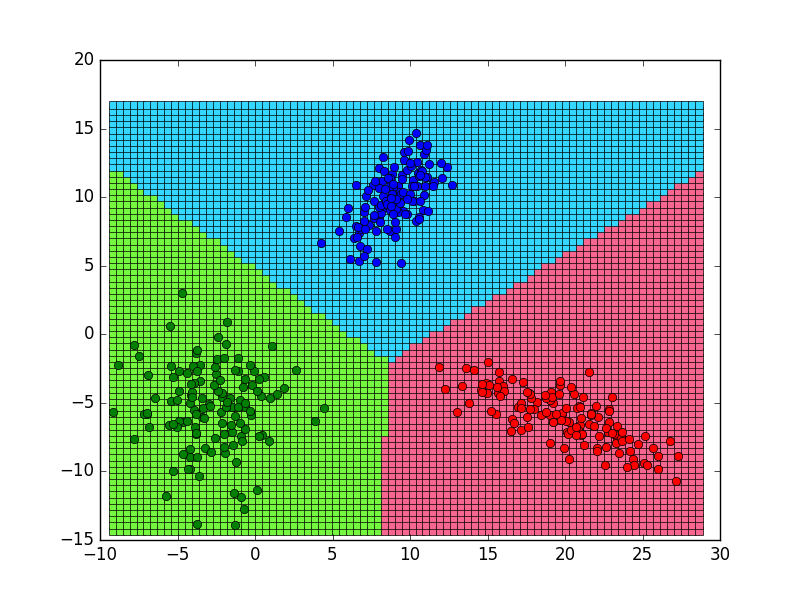
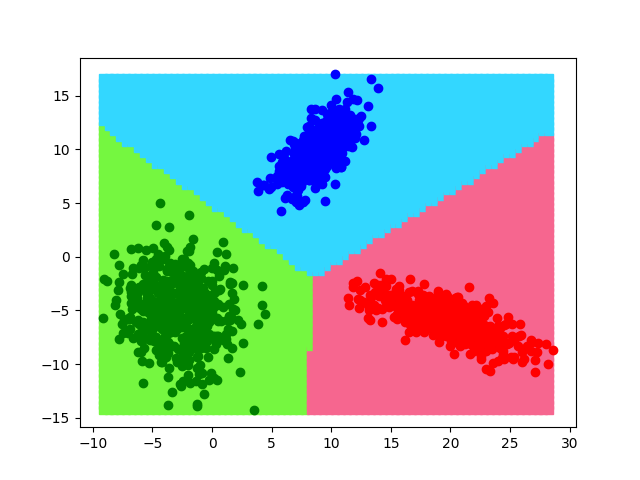
Contour shape Corrected for all 3 cases

diff --git a/NLS_group12/4.py b/NLS_group12/4.py
@@ -110,6 +110,19 @@ def calcG(w2,w1,w0,x):
     # g=(w[0]*float(x[0]))+(w[1]*float(x[1]))+w0
     return g
 
+def calcGp(w2,w1,w0,x,y):
+    x1 = x
+    x2 = y
+    # print(x1," ", x2);
+    temp = [( (x1*w2[0][0]) + (x2*w2[1][0]) ), ( (x1*w2[0][1]) + (x2*w2[1][1]) )]
+    g = ( (temp[0]*x1) + (temp[1]*x2) )
+    
+    g += ( (w1[0]*x1) + (w1[1]*x2) )
+
+    g += w0
+    # g=(w[0]*float(x[0]))+(w[1]*float(x[1]))+w0
+    return g
+
 def graph(formula, x_range):  
     x = np.array(x_range)  
     y = formula(x)
@@ -330,23 +343,23 @@ def main():
     print ("ymax = ",ymax)
     A = [[0 for x in range(2)] for y in range(2)]
 
-    i=xmin
-    while i<xmax :
-        j=ymin
-        while j<ymax:
-            A[0]=i
-            A[1]=j
-            g1=calcG(w2_1,w1_1,w01,A)
-            g2=calcG(w2_2,w1_2,w02,A)
-            g3=calcG(w2_3,w1_3,w03,A)
-            if g1==max(g1,g2,g3):
-                plt.plot(i,j,color='#f6668f',marker='s')
-            elif g2==max(g1,g2,g3):
-                plt.plot(i,j,color='#33d7ff',marker='s')
-            elif g3==max(g1,g2,g3):
-                plt.plot(i,j,color='#75f740',marker='s')
-            j+=0.07
-        i+=0.07
+    # i=xmin
+    # while i<xmax :
+    #     j=ymin
+    #     while j<ymax:
+    #         A[0]=i
+    #         A[1]=j
+    #         g1=calcG(w2_1,w1_1,w01,A)
+    #         g2=calcG(w2_2,w1_2,w02,A)
+    #         g3=calcG(w2_3,w1_3,w03,A)
+    #         if g1==max(g1,g2,g3):
+    #             plt.plot(i,j,color='#f6668f',marker='s')
+    #         elif g2==max(g1,g2,g3):
+    #             plt.plot(i,j,color='#33d7ff',marker='s')
+    #         elif g3==max(g1,g2,g3):
+    #             plt.plot(i,j,color='#75f740',marker='s')
+    #         j+=0.07
+    #     i+=0.07
 
     X1=readDataSetTesting("Class1.txt")
     for i in range(M-N):
@@ -359,8 +372,45 @@ def main():
     X3=readDataSetTesting("Class3.txt")
     for i in range(M-N):
         plt.plot(X3[i][0],X3[i][1],'go')
-
+	
+    x = np.linspace(xmin,xmax,100)
+    y = np.linspace(ymin,ymax,100)
+    X, Y = np.meshgrid(x, y)
+    Z=calcGp(w2_1,w1_1,w01,X,Y)
+    for i in range (100):
+    	for j in range (100):
+    		if(Z[i][j])<-3:
+    			Z[i][j]=-3
+    print (Z)
+   # #plt.figure()
+    plt.contour(X, Y, Z,7,colors="black")      
     
+    x = np.linspace(xmin,xmax,100)
+    y = np.linspace(ymin,ymax,100)
+    X, Y = np.meshgrid(x, y)
+    Z=calcGp(w2_3,w1_3,w03,X,Y)
+    for i in range (100):
+    	for j in range (100):
+    		if(Z[i][j])<-3:
+    			Z[i][j]=-3
+    print (Z)
+   # #plt.figure()
+    plt.contour(X, Y, Z,7,colors="black")      
+    
+    x = np.linspace(xmin,xmax,100)
+    y = np.linspace(ymin,ymax,100)
+    X, Y = np.meshgrid(x, y)
+    Z=calcGp(w2_2,w1_2,w02,X,Y)
+    for i in range (100):
+    	for j in range (100):
+    		if(Z[i][j])<-4:
+    			Z[i][j]=-4
+    print (Z)
+   # #plt.figure()
+    plt.contour(X, Y, Z,7,colors="black")      
+    
+
+
     plt.show()   
 
     

diff --git a/rd_group12/4.py b/rd_group12/4.py
@@ -122,6 +122,19 @@ def calcG(w2,w1,w0,x):
     # g=(w[0]*float(x[0]))+(w[1]*float(x[1]))+w0
     return g
 
+def calcGp(w2,w1,w0,x,y):
+    x1 = x
+    x2 = y
+    # print(x1," ", x2);
+    temp = [( (x1*w2[0][0]) + (x2*w2[1][0]) ), ( (x1*w2[0][1]) + (x2*w2[1][1]) )]
+    g = ( (temp[0]*x1) + (temp[1]*x2) )
+    
+    g += ( (w1[0]*x1) + (w1[1]*x2) )
+
+    g += w0
+    # g=(w[0]*float(x[0]))+(w[1]*float(x[1]))+w0
+    return g
+
 def graph(formula, x_range):  
     x = np.array(x_range)  
     y = formula(x)
@@ -372,23 +385,23 @@ def main():
     print ("ymax = ",ymax)
     A = [[0 for x in range(2)] for y in range(2)]
 
-    i=xmin
-    while i<xmax :
-        j=ymin
-        while j<ymax:
-            A[0]=i
-            A[1]=j
-            g1=calcG(w2_1,w1_1,w01,A)
-            g2=calcG(w2_2,w1_2,w02,A)
-            g3=calcG(w2_3,w1_3,w03,A)
-            if g1==max(g1,g2,g3):
-                plt.plot(i,j,color='#f6668f',marker='s')
-            elif g2==max(g1,g2,g3):
-                plt.plot(i,j,color='#33d7ff',marker='s')
-            elif g3==max(g1,g2,g3):
-                plt.plot(i,j,color='#75f740',marker='s')
-            j+=25
-        i+=25
+    # i=xmin
+    # while i<xmax :
+    #     j=ymin
+    #     while j<ymax:
+    #         A[0]=i
+    #         A[1]=j
+    #         g1=calcG(w2_1,w1_1,w01,A)
+    #         g2=calcG(w2_2,w1_2,w02,A)
+    #         g3=calcG(w2_3,w1_3,w03,A)
+    #         if g1==max(g1,g2,g3):
+    #             plt.plot(i,j,color='#f6668f',marker='s')
+    #         elif g2==max(g1,g2,g3):
+    #             plt.plot(i,j,color='#33d7ff',marker='s')
+    #         elif g3==max(g1,g2,g3):
+    #             plt.plot(i,j,color='#75f740',marker='s')
+    #         j+=25
+    #     i+=25
 
     X1=readDataSetTesting("class1.txt")
     for i in range(len(X1)):
@@ -402,7 +415,43 @@ def main():
     for i in range(len(X3)):
         plt.plot(X3[i][0],X3[i][1],'go')
 
-    
+    x = np.linspace(xmin,xmax,100)
+    y = np.linspace(ymin,ymax,100)
+    X, Y = np.meshgrid(x, y)
+    Z=calcGp(w2_1,w1_1,w01,X,Y)
+    for i in range (100):
+        for j in range (100):
+            if(Z[i][j])<-40:
+                Z[i][j]=-40
+    print (Z)
+   # #plt.figure()
+    plt.contour(X, Y, Z,7,colors="red")
+
+    x = np.linspace(xmin,xmax,100)
+    y = np.linspace(ymin,ymax,100)
+    X, Y = np.meshgrid(x, y)
+    Z=calcGp(w2_2,w1_2,w02,X,Y)
+    for i in range (100):
+        for j in range (100):
+            if(Z[i][j])<-40:
+                Z[i][j]=-40
+    print (Z)
+   # #plt.figure()
+    plt.contour(X, Y, Z,7,colors="blue")      
+
+
+    x = np.linspace(xmin,xmax,100)
+    y = np.linspace(ymin,ymax,100)
+    X, Y = np.meshgrid(x, y)
+    Z=calcGp(w2_3,w1_3,w03,X,Y)
+    for i in range (100):
+        for j in range (100):
+            if(Z[i][j])<-40:
+                Z[i][j]=-40
+    print (Z)
+   # #plt.figure()
+    plt.contour(X, Y, Z,7,colors="green")      
+
     plt.show()
 
 

diff --git a/LS_Group12/4.py b/LS_Group12/4.py
@@ -364,20 +364,20 @@ def main():
     #         j+=0.7
     #     i+=0.7
     
-    X1=readDataSetTesting("Class1.txt")
-    for i in range(M-N):
+    X1=readDataSetWhole("Class1.txt")
+    for i in range(M):
         plt.plot(X1[i][0],X1[i][1],'ro')
 
-    X2=readDataSetTesting("Class2.txt")
-    for i in range(M-N):
+    X2=readDataSetWhole("Class2.txt")
+    for i in range(M):
         plt.plot(X2[i][0],X2[i][1],'bo')
 
-    X3=readDataSetTesting("Class3.txt")
-    for i in range(M-N):
+    X3=readDataSetWhole("Class3.txt")
+    for i in range(M):
         plt.plot(X3[i][0],X3[i][1],'go')
 
-    x = np.linspace(-10,10,100)
-    y = np.linspace(-20,5,100)
+    x = np.linspace(xmin,xmax,100)
+    y = np.linspace(ymin,ymax,100)
     X, Y = np.meshgrid(x, y)
     Z=calcGp(w2_3,w1_3,w03,X,Y)
     for i in range (100):
@@ -389,8 +389,8 @@ def main():
     plt.contour(X, Y, Z,7,colors="black")
     #plt.figure()
     #plt.show()   
-    x = np.linspace(4.5,35,100)
-    y = np.linspace(-15,5,100)
+    x = np.linspace(xmin,xmax,100)
+    y = np.linspace(ymin,ymax,100)
     X, Y = np.meshgrid(x, y)
     Z=calcGp(w2_1,w1_1,w01,X,Y)
     for i in range (100):
@@ -401,8 +401,8 @@ def main():
     # #plt.figure()
     plt.contour(X, Y, Z,7,colors="black")
 
-    x = np.linspace(1.7,17,100)
-    y = np.linspace(1.8,20,100)
+    x = np.linspace(xmin,xmax,100)
+    y = np.linspace(ymin,ymax,100)
     X, Y = np.meshgrid(x, y)
     Z=calcGp(w2_2,w1_2,w02,X,Y)
     for i in range (100):

diff --git a/LS_Group12/1.py b/LS_Group12/1.py
@@ -293,6 +293,10 @@ def main():
     print ("ymax = ",ymax)
     A = [[0 for x in range(2)] for y in range(2)]
 
+    x = np.linspace(xmin,xmax,100)
+    y = np.linspace(ymin,ymax,100)
+    X, Y = np.meshgrid(x, y)
+    
     i=xmin
     while i<xmax :
         j=ymin
@@ -308,19 +312,19 @@ def main():
                 plt.plot(i,j,color='#33d7ff',marker='s')
             elif g3==max(g1,g2,g3):
                 plt.plot(i,j,color='#75f740',marker='s')
-            j+=1
-        i+=1
+            j+=0.5
+        i+=0.5
 
-    X1=readDataSetTesting("Class1.txt")
-    for i in range(M-N):
+    X1=readDataSetWhole("Class1.txt")
+    for i in range(M):
         plt.plot(X1[i][0],X1[i][1],'ro')
 
-    X2=readDataSetTesting("Class2.txt")
-    for i in range(M-N):
+    X2=readDataSetWhole("Class2.txt")
+    for i in range(M):
         plt.plot(X2[i][0],X2[i][1],'bo')
 
-    X3=readDataSetTesting("Class3.txt")
-    for i in range(M-N):
+    X3=readDataSetWhole("Class3.txt")
+    for i in range(M):
         plt.plot(X3[i][0],X3[i][1],'go')
 
     print (w3," ",w03)
